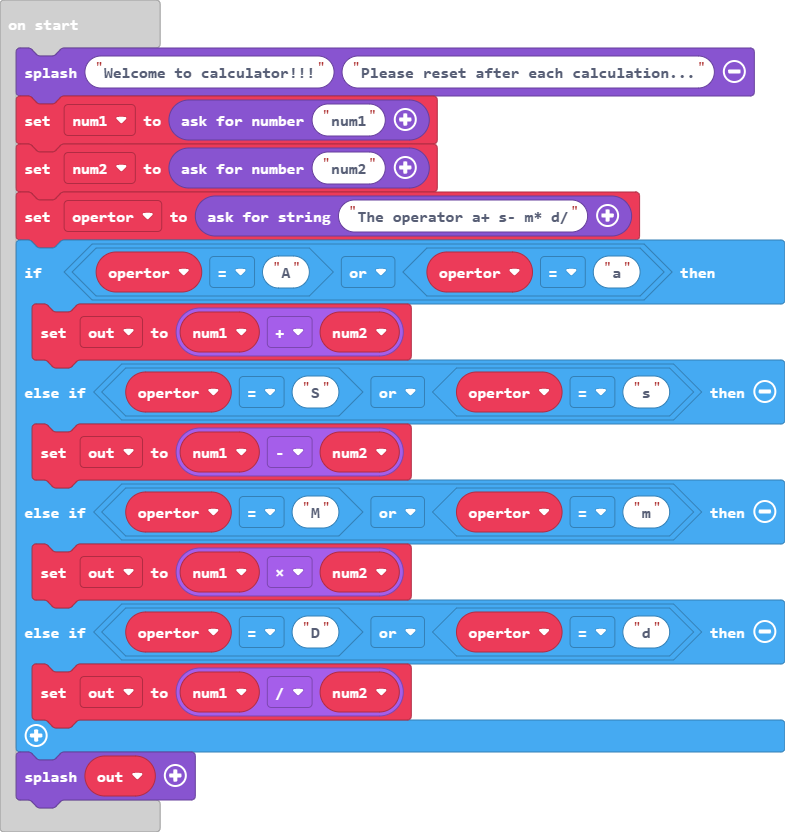
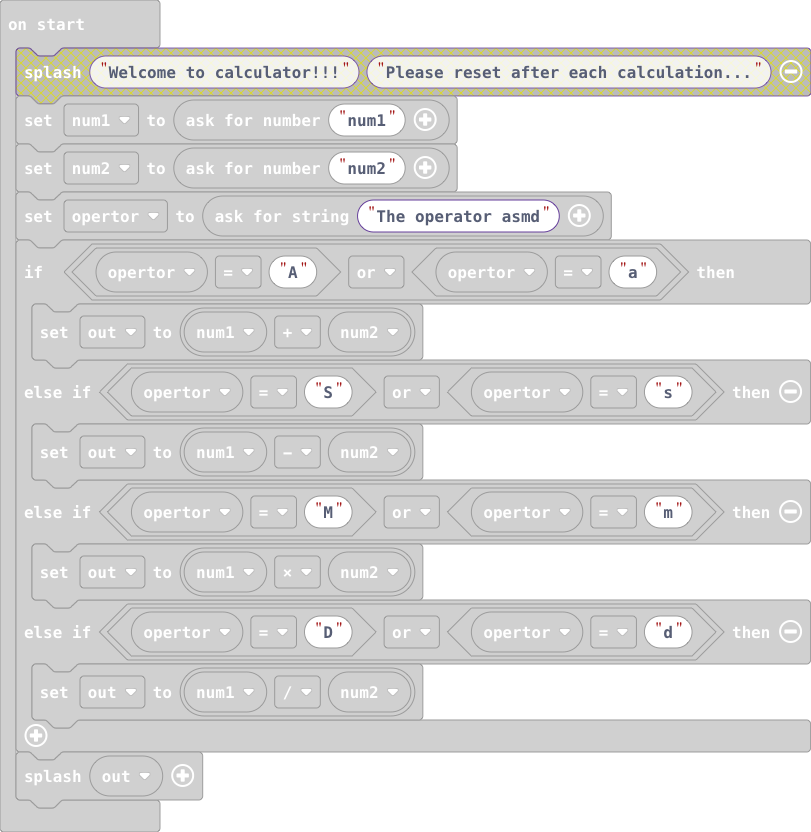
Much much better

diff --git a/main.ts b/main.ts
@@ -1,8 +1,7 @@
 let out = 0
-game.splash("Welcome to calculator!!!", "Please reset after each calculation...")
 let num1 = game.askForNumber("num1")
 let num2 = game.askForNumber("num2")
-let opertor = game.askForString("The operator a+ s- m* d/")
+let opertor = game.askForString("The operator asmd")
 if (opertor == "A" || opertor == "a") {
     out = num1 + num2
 } else if (opertor == "S" || opertor == "s") {
